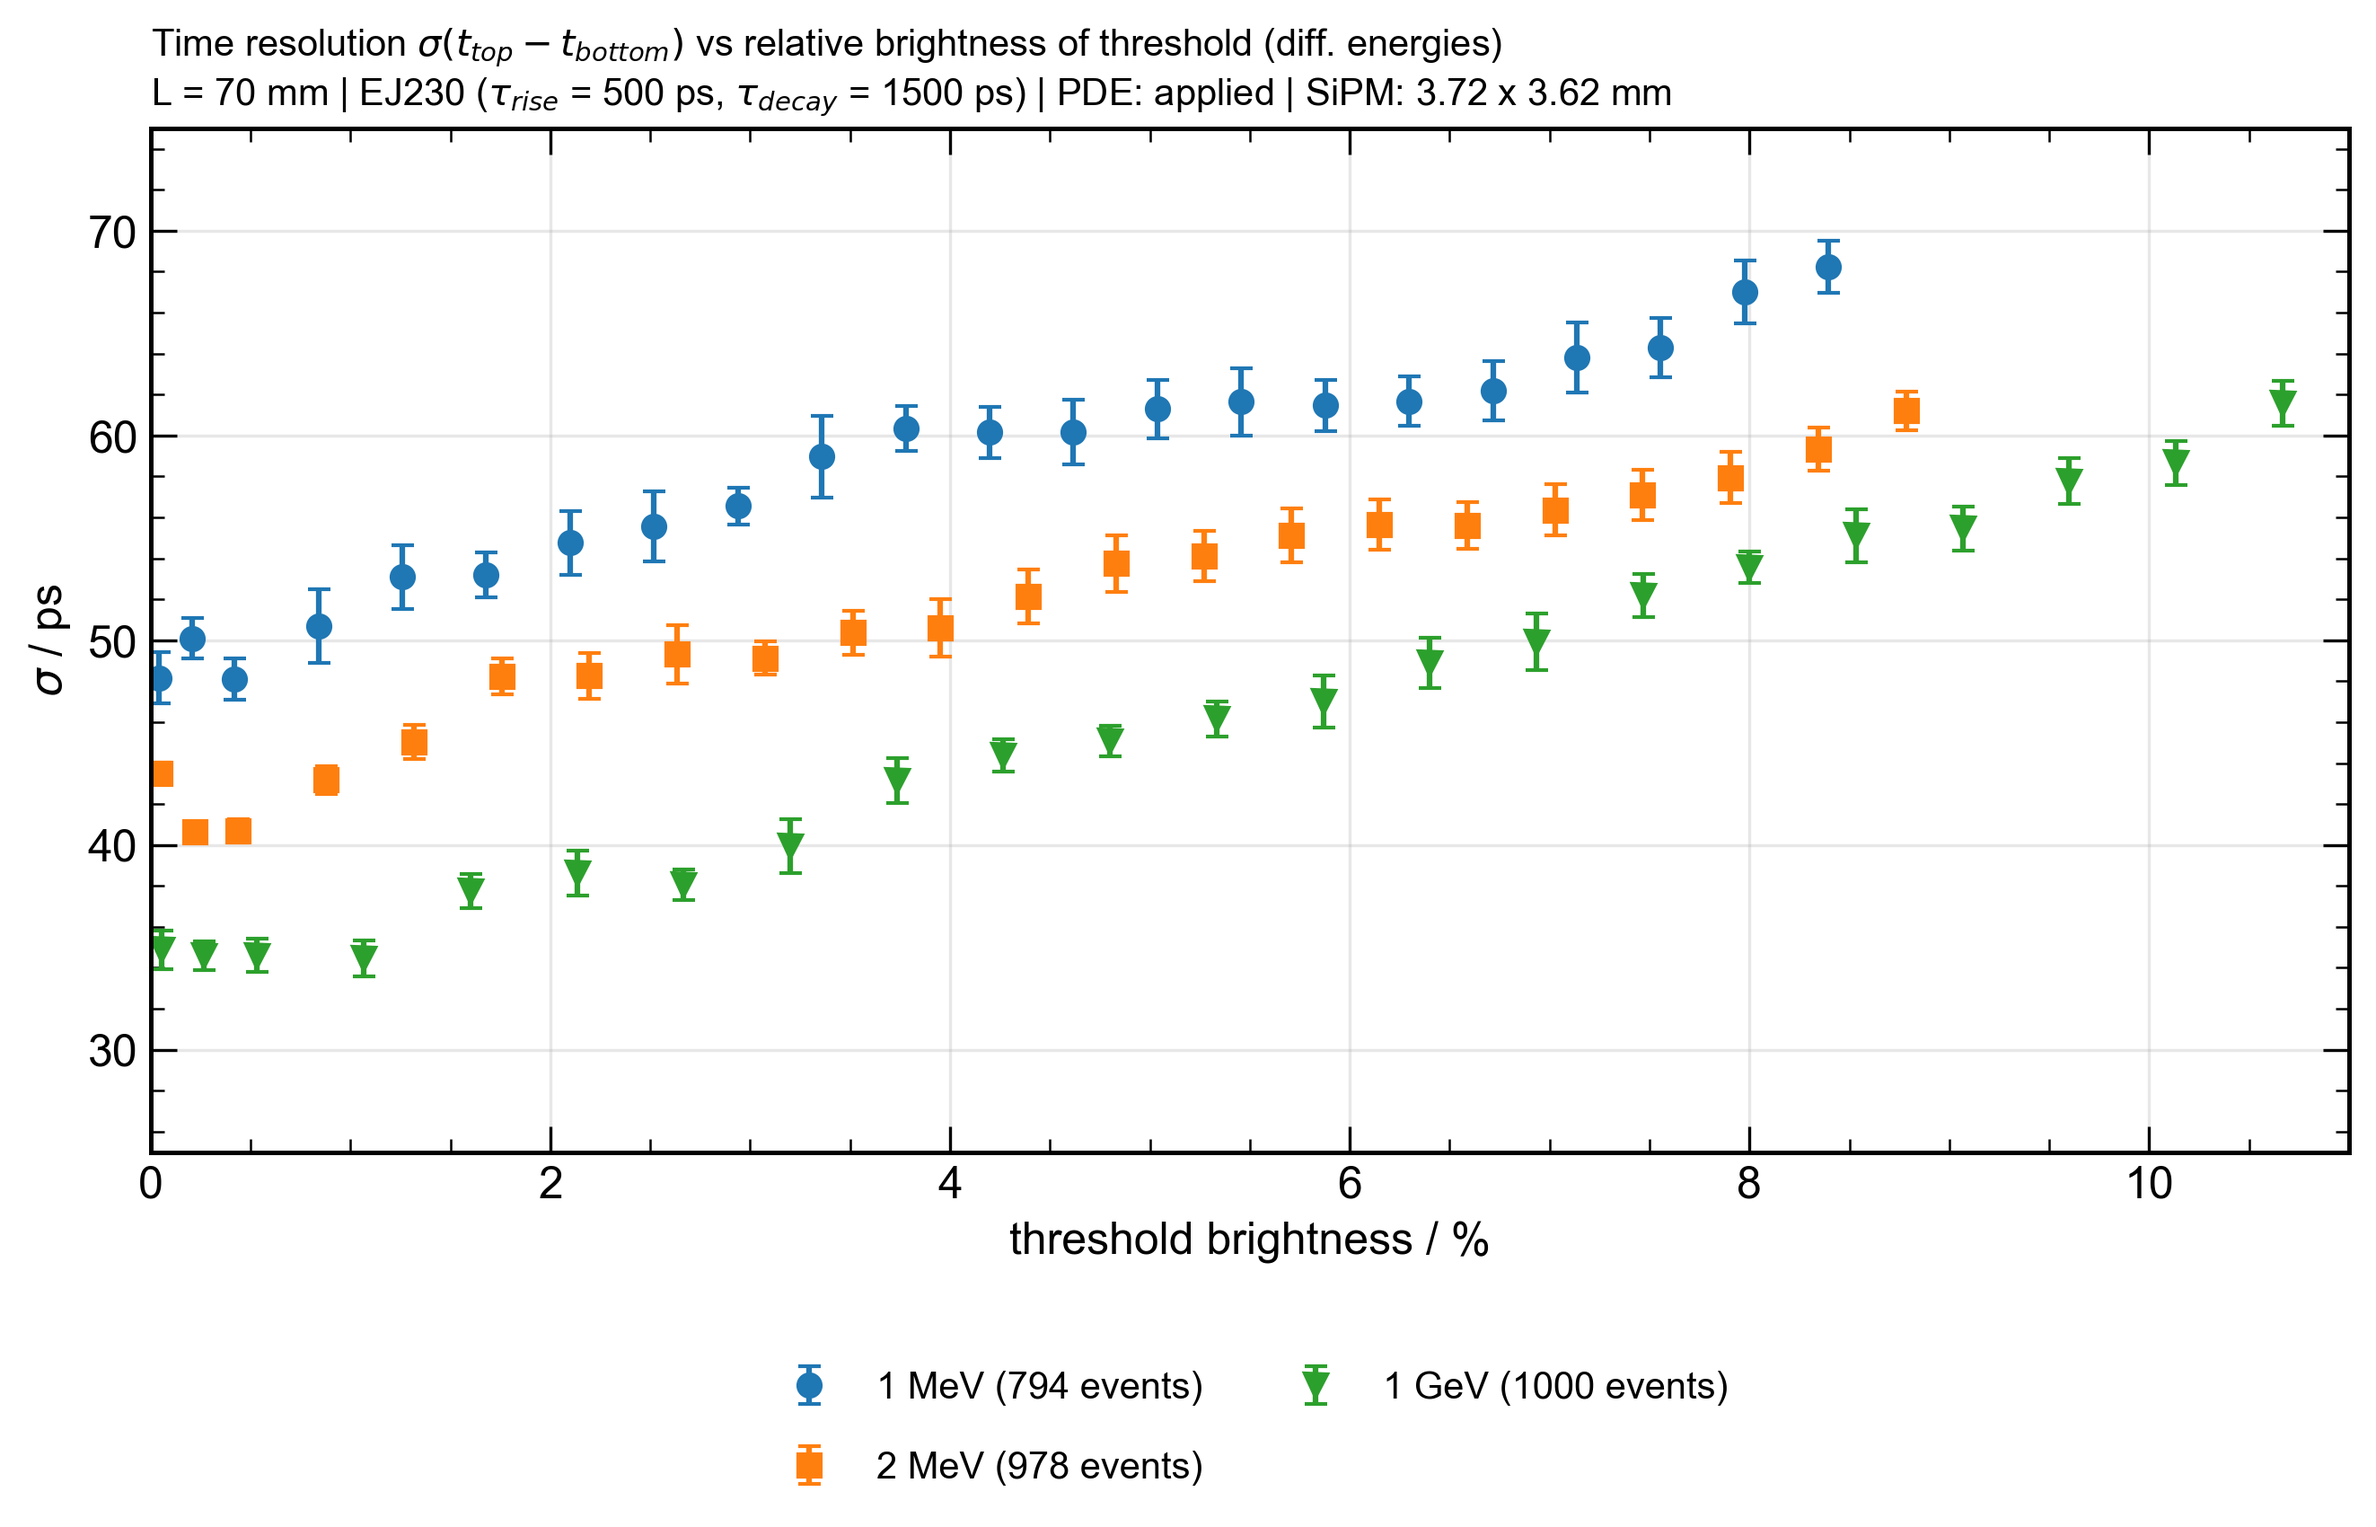
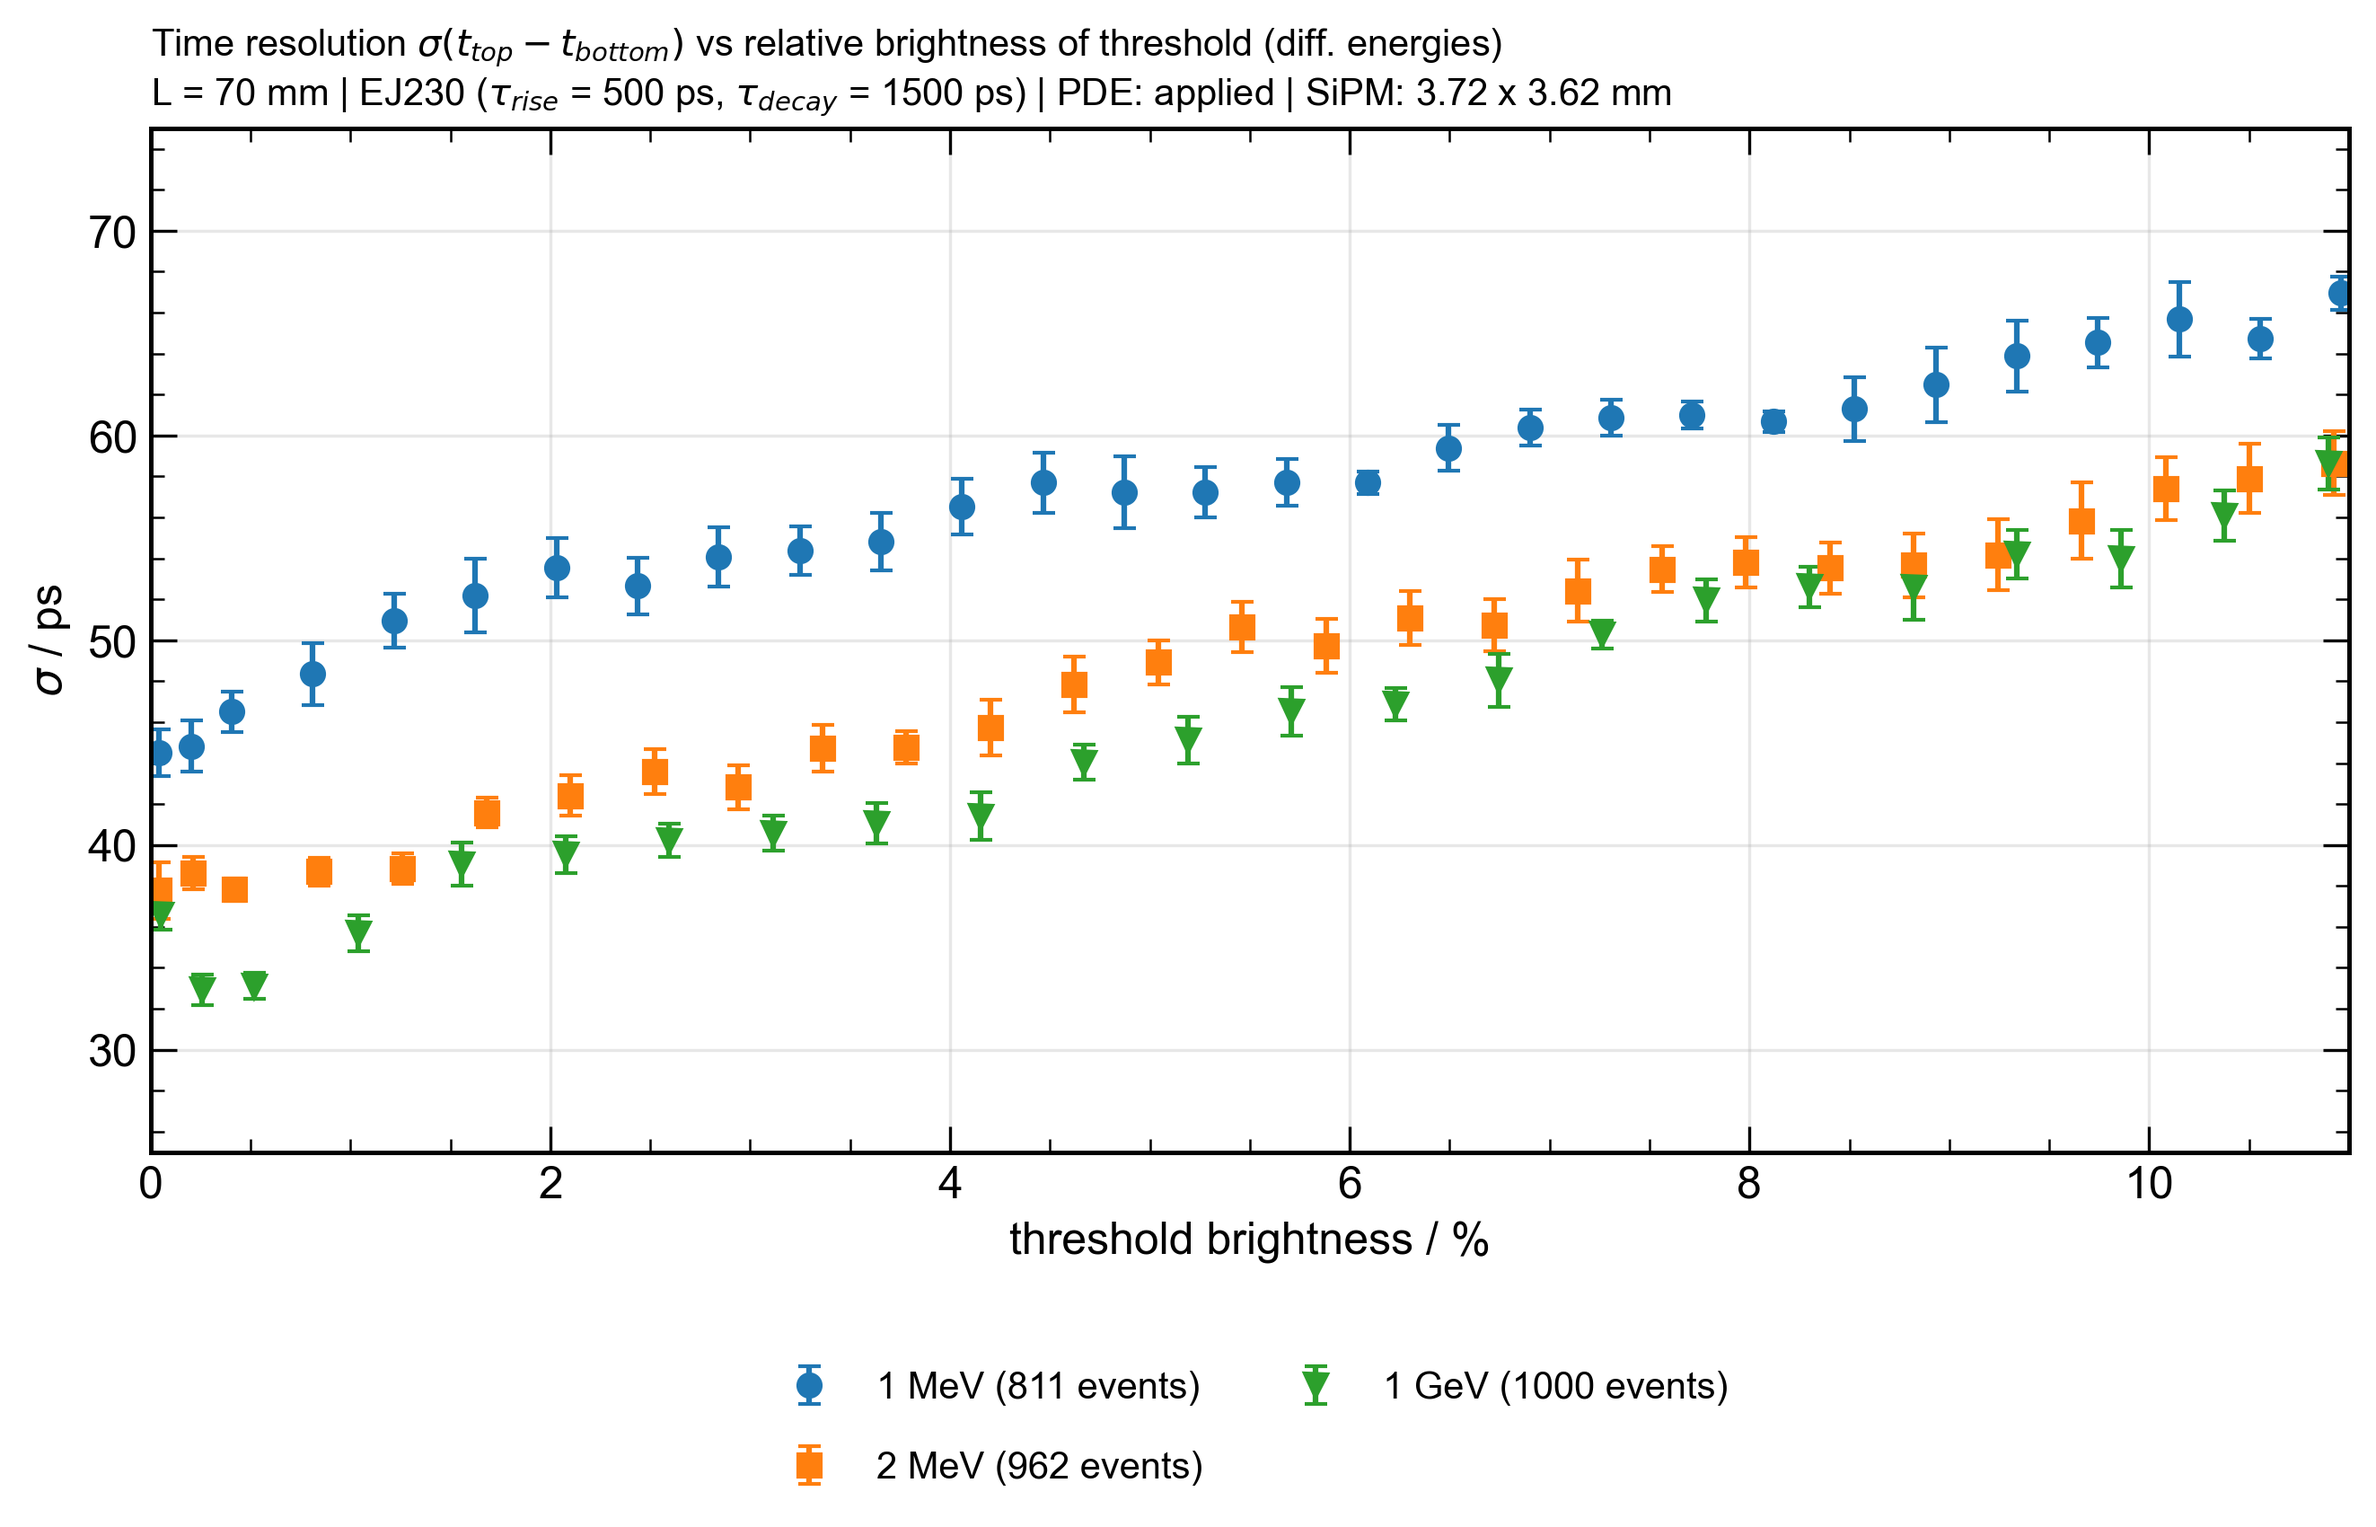
new

diff --git a/threshold/compare_materials_energies_brightness.py b/threshold/compare_materials_energies_brightness.py
@@ -17,7 +17,7 @@ OUT_DIR = SCRIPT_DIR / "plots" / "plots_comparison_brightness"
 SIPM_ACTIVE_AREA = "3.72 x 3.62 mm"
 PDE_APPLIED = True
 
-CUMULATIVE_PHOTON_THRESHOLDS = [1, 5] + list(range(10, 201, 10))
+CUMULATIVE_PHOTON_THRESHOLDS = [1, 5] + list(range(10, 301, 10))
 
 PLOT_RANGE = {
     "energies": {
@@ -197,7 +197,7 @@ def plot_title(what, length, energy_mev=None, material=None):
 
     return f"{what}\n" + " | ".join(setup)
 
-def plot_curves(curves, title, path, plot_type, plot_key):
+def plot_curves(curves, title, path, plot_type, plot_key, plot_label):
     # curves: Liste aus (Label, fits, Farbe, Marker)
     fig, ax = plt.subplots(figsize=(9, 6))
 
@@ -250,7 +250,7 @@ def plot_curves(curves, title, path, plot_type, plot_key):
     fig.savefig(path, dpi=300, bbox_inches="tight")
     
     plt.close(fig)
-    print(f"Saved {path}")
+    print(f"Saved plot for {plot_label}") # : {path}
 
 results = {}
 
@@ -258,9 +258,14 @@ only_data = DATA_ROOT.glob("*/*/70mm.csv")
 
 for path in sorted(only_data):
     length = float(path.name.removesuffix("mm.csv"))
-    print(f"Loading CSV file: {path}")
+    # print(f"Loading CSV file: {path}")
     result = analyse_file(path)
     results[(length, result["material"], result["energy_mev"])] = result
+    print(f"Material: {result['material']}")
+    print(f"Length: {length} mm")
+    print(f"Energy: {result['energy_mev']} MeV")
+    print(f"Average detected photons over all events: {result['average_detected_photons_over_all_events']}")
+    print("---------------------------------")
 
 if not results:
     raise SystemExit(f"No CSV files found under {DATA_ROOT}")
@@ -304,7 +309,8 @@ for length in lengths:
             ),
             length_dir / f"materials_{format_energy(energy).replace(' ', '')}.png",
             plot_type="materials",
-            plot_key=format_energy(energy).replace(" ", "")
+            plot_key=format_energy(energy).replace(" ", ""),
+            plot_label=f"all materials - {length:g} mm - {format_energy(energy)}",
         )
 
     # Länge und Material fest, Energie variiert
@@ -331,5 +337,6 @@ for length in lengths:
             ),
             length_dir / f"energies_{material}.png",
             plot_type="energies",
-            plot_key=material
+            plot_key=material,
+            plot_label=f"{material} - {length:g} mm - all energies",
         )
